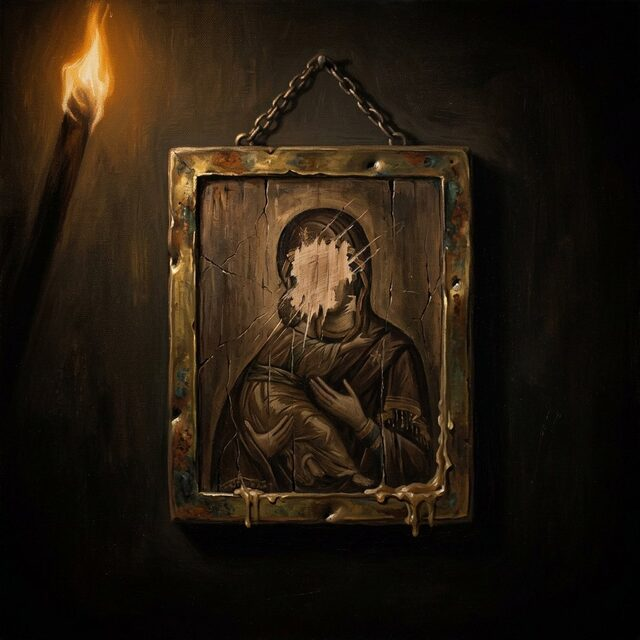
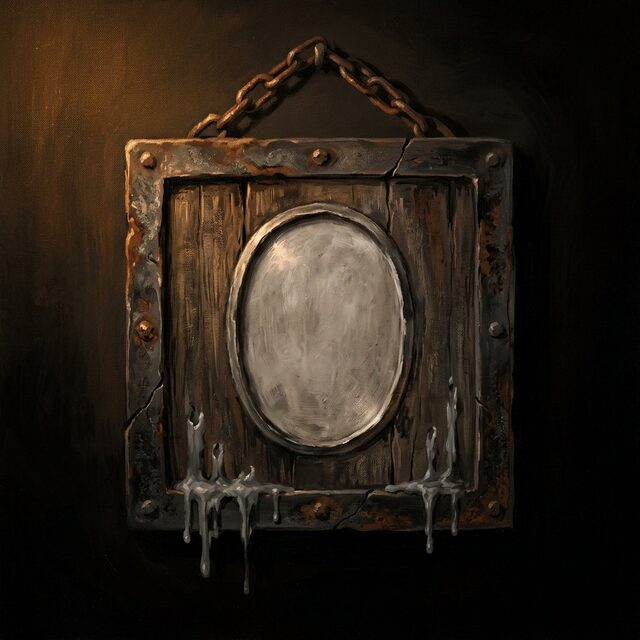
Арт: икона без религиозной символики и восьмая партия (9 предметов)
- icon переpисован: светский артефакт подземелья (железно-деревянная
  табличка с пустым овальным углублением), без культа;
- новые: cloth, root, herb, silk, fang, gland, ember, magic_ink,
  scrap_metal. Предметы 79/135.

Changed region(s): [[0.0, 0.0, 0.8125, 0.9062], [0.375, 0.9062, 0.4062, 0.9375]]

diff --git a/src/game/artManifest.ts b/src/game/artManifest.ts
@@ -68,19 +68,25 @@ export const ITEM_ART: Readonly<Record<string, string>> = {
   "boots": "images/items/boots.jpg",
   "buckler": "images/items/buckler.jpg",
   "bulwark_mace": "images/items/bulwark_mace.jpg",
+  "cloth": "images/items/cloth.jpg",
   "coif": "images/items/coif.jpg",
   "crown_husk": "images/items/crown_husk.jpg",
   "dagger": "images/items/dagger.jpg",
+  "ember": "images/items/ember.jpg",
+  "fang": "images/items/fang.jpg",
   "fear_vial": "images/items/fear_vial.jpg",
   "fire": "images/items/fire.jpg",
   "focus_rune": "images/items/focus_rune.jpg",
+  "gland": "images/items/gland.jpg",
   "greathelm": "images/items/greathelm.jpg",
   "greatsword": "images/items/greatsword.jpg",
   "greaves": "images/items/greaves.jpg",
   "hammer": "images/items/hammer.jpg",
   "helm": "images/items/helm.jpg",
+  "herb": "images/items/herb.jpg",
   "icon": "images/items/icon.jpg",
   "knife": "images/items/knife.jpg",
+  "magic_ink": "images/items/magic_ink.jpg",
   "mail": "images/items/mail.jpg",
   "moss": "images/items/moss.jpg",
   "ninja_kusarigama": "images/items/ninja_kusarigama.jpg",
@@ -98,8 +104,10 @@ export const ITEM_ART: Readonly<Record<string, string>> = {
   "ring_stone": "images/items/ring_stone.jpg",
   "ring_venom": "images/items/ring_venom.jpg",
   "ring_ward": "images/items/ring_ward.jpg",
+  "root": "images/items/root.jpg",
   "runed_bracers": "images/items/runed_bracers.jpg",
   "sage_censer": "images/items/sage_censer.jpg",
+  "scrap_metal": "images/items/scrap_metal.jpg",
   "scroll_bolt": "images/items/scroll_bolt.jpg",
   "scroll_creation": "images/items/scroll_creation.jpg",
   "scroll_fire": "images/items/scroll_fire.jpg",
@@ -112,6 +120,7 @@ export const ITEM_ART: Readonly<Record<string, string>> = {
   "shield_tower": "images/items/shield_tower.jpg",
   "shoes": "images/items/shoes.jpg",
   "shroud": "images/items/shroud.jpg",
+  "silk": "images/items/silk.jpg",
   "smoke_bomb": "images/items/smoke_bomb.jpg",
   "soulstone": "images/items/soulstone.jpg",
   "spear": "images/items/spear.jpg",
